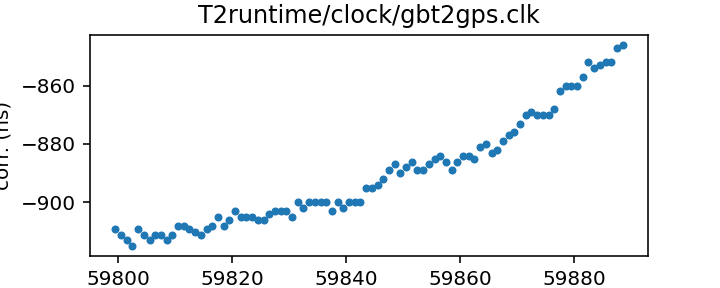
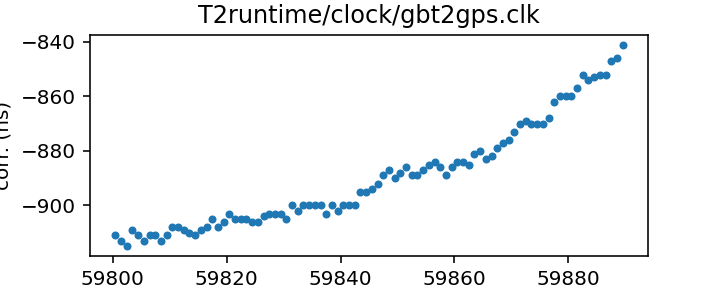
Routine gh-pages update from Github action Mon Nov  7 20:36:33 UTC 2022

diff --git a/status.md b/status.md
@@ -13,17 +13,17 @@ name of each clock file links to a page with more details.
 
 | Name | File | Corrections start | Corrections end | Last check date | Last check result 
 |:--- |:--- | --- | --- | --- |:--- 
-| [GPS to UTC](T2runtime/clock/gps2utc.clk.html) | `T2runtime/clock/gps2utc.clk` | 1993-01-01 MJD 48988.0 | 2022-09-27 MJD 59849.0 | 2022-11-06 | Unchanged 
-| [GPS to UTC (Combined Clock)](T2runtime/clock/gps2utc_cc.clk.html) | `T2runtime/clock/gps2utc_cc.clk` | 1993-01-01 MJD 48988.0 | 2022-09-27 MJD 59849.0 | 2022-11-06 | Unchanged 
-| [GPS to UTC (Corrected)](T2runtime/clock/gps2utc_c0p.clk.html) | `T2runtime/clock/gps2utc_c0p.clk` | 2010-12-29 MJD 55559.0 | 2022-09-27 MJD 59849.0 | 2022-11-06 | Unchanged 
-| [GBT](tempo/clock/time_gbt.dat.html) | `tempo/clock/time_gbt.dat` | 2000-12-31 MJD 51909.5 | 2022-11-05 MJD 59888.5 | 2022-11-06 | Updated 
-| [GBT (TEMPO2 converted from TEMPO)](T2runtime/clock/gbt2gps.clk.html) | `T2runtime/clock/gbt2gps.clk` | 2000-12-31 MJD 51909.5 | 2022-11-05 MJD 59888.5 | 2022-11-06 | Updated 
+| [GPS to UTC](T2runtime/clock/gps2utc.clk.html) | `T2runtime/clock/gps2utc.clk` | 1993-01-01 MJD 48988.0 | 2022-09-27 MJD 59849.0 | 2022-11-07 | Unchanged 
+| [GPS to UTC (Combined Clock)](T2runtime/clock/gps2utc_cc.clk.html) | `T2runtime/clock/gps2utc_cc.clk` | 1993-01-01 MJD 48988.0 | 2022-09-27 MJD 59849.0 | 2022-11-07 | Unchanged 
+| [GPS to UTC (Corrected)](T2runtime/clock/gps2utc_c0p.clk.html) | `T2runtime/clock/gps2utc_c0p.clk` | 2010-12-29 MJD 55559.0 | 2022-09-27 MJD 59849.0 | 2022-11-07 | Unchanged 
+| [GBT](tempo/clock/time_gbt.dat.html) | `tempo/clock/time_gbt.dat` | 2000-12-31 MJD 51909.5 | 2022-11-06 MJD 59889.5 | 2022-11-07 | Updated 
+| [GBT (TEMPO2 converted from TEMPO)](T2runtime/clock/gbt2gps.clk.html) | `T2runtime/clock/gbt2gps.clk` | 2000-12-31 MJD 51909.5 | 2022-11-06 MJD 59889.5 | 2022-11-07 | Updated 
 | [Jodrell Bank](T2runtime/clock/jb2gps.clk.html) | `T2runtime/clock/jb2gps.clk` | 2006-10-13 MJD 54021.4 | 2021-11-03 MJD 59521.0 | 2022-11-02 | Unchanged 
 | [Jodrell Bank Roach](T2runtime/clock/jbroach2jb.clk.html) | `T2runtime/clock/jbroach2jb.clk` | 2006-10-13 MJD 54021.4 | 2018-03-20 MJD 58197.6 | 2022-11-02 | Unchanged 
 | [Jodrell Bank DFB](T2runtime/clock/jbdfb2jb.clk.html) | `T2runtime/clock/jbdfb2jb.clk` | 2006-10-13 MJD 54021.4 | 2017-05-11 MJD 57884.0 | 2022-11-02 | Unchanged 
-| [Meerkat (observatory)](T2runtime/clock/mk2utc_observatory.clk.html) | `T2runtime/clock/mk2utc_observatory.clk` | 2019-01-01 MJD 58484.0 | 2022-10-05 MJD 59858.0 | 2022-10-31 | **Failed to download** 
-| [Leap seconds](tempo/clock/leap.sec.html) | `tempo/clock/leap.sec` | 1972-07-01 MJD 41499.0 | 2017-01-01 MJD 57754.0 | 2022-11-06 | Unchanged 
-| [UT1 table](tempo/clock/ut1.dat.html) | `tempo/clock/ut1.dat` | 1973-01-02 MJD 41684.0 | 2023-11-11 MJD 60259.0 | 2022-11-06 | Unchanged 
+| [Meerkat (observatory)](T2runtime/clock/mk2utc_observatory.clk.html) | `T2runtime/clock/mk2utc_observatory.clk` | 2019-01-01 MJD 58484.0 | 2022-10-05 MJD 59858.0 | 2022-11-07 | **Failed to download** 
+| [Leap seconds](tempo/clock/leap.sec.html) | `tempo/clock/leap.sec` | 1972-07-01 MJD 41499.0 | 2017-01-01 MJD 57754.0 | 2022-11-07 | Unchanged 
+| [UT1 table](tempo/clock/ut1.dat.html) | `tempo/clock/ut1.dat` | 1973-01-02 MJD 41684.0 | 2023-11-11 MJD 60259.0 | 2022-11-07 | Unchanged 
 
 
 
@@ -64,7 +64,7 @@ name of each clock file links to a page with more details.
 | Name | File | Corrections start | Corrections end | Last check date | Last check result 
 |:--- |:--- | --- | --- | --- |:--- 
 | [GPS to UTC (TEMPO2)](T2runtime/clock/gps2utc_tempo2.clk.html) | `T2runtime/clock/gps2utc_tempo2.clk` | 1996-03-27 MJD 50169.0 | 2020-10-27 MJD 59149.0 | 2022-11-03 | Unchanged 
-| [GBT (TEMPO2)](T2runtime/clock/gbt2gps_tempo2.clk.html) | `T2runtime/clock/gbt2gps_tempo2.clk` | 2000-12-31 MJD 51909.5 | 2020-02-25 MJD 58904.5 | 2022-10-31 | Unchanged 
+| [GBT (TEMPO2)](T2runtime/clock/gbt2gps_tempo2.clk.html) | `T2runtime/clock/gbt2gps_tempo2.clk` | 2000-12-31 MJD 51909.5 | 2020-02-25 MJD 58904.5 | 2022-11-07 | Unchanged 
 | [Jodrell Bank (TEMPO)](tempo/clock/time_jb.dat.html) | `tempo/clock/time_jb.dat` | 2006-10-13 MJD 54021.4 | 2019-05-13 MJD 58616.2 | 2022-11-03 | Unchanged 
 | [VLA](tempo/clock/time_vla.dat.html) | `tempo/clock/time_vla.dat` | 1990-10-27 MJD 48191.2 | 2021-03-07 MJD 59280.5 | 2022-11-03 | **Failed to download** 
 | [VLA (TEMPO2)](T2runtime/clock/vla2gps.clk.html) | `T2runtime/clock/vla2gps.clk` | 2015-02-01 MJD 57054.6 | 2021-03-07 MJD 59280.5 | 2022-11-02 | Unchanged 

diff --git a/T2runtime/clock/gbt2gps.clk.md b/T2runtime/clock/gbt2gps.clk.md
@@ -23,14 +23,13 @@ If questions arise about the conversion, contact Anne Archibald
 | Format | tempo2 |
 | Bogus last correction | False |
 | Clock file start | 2000-12-31 MJD 51909.5 |
-| Clock file end | 2022-11-05 MJD 59888.5 |
+| Clock file end | 2022-11-06 MJD 59889.5 |
 | Update interval (days) | 1 |
-| Last update attempt | 2022-11-06 |
+| Last update attempt | 2022-11-07 |
 | Last update result | Updated |
 
 Log entries from the last few update attempts:
 ```
-2022-10-28 20:37:47.427 - Updated
 2022-10-29 20:35:15.179 - Updated
 2022-10-30 20:35:46.191 - Updated
 2022-10-31 20:37:51.621 - Updated
@@ -40,12 +39,13 @@ Log entries from the last few update attempts:
 2022-11-04 20:36:42.437 - Updated
 2022-11-05 20:35:36.397 - Updated
 2022-11-06 20:33:42.746 - Updated
+2022-11-07 20:35:55.172 - Updated
 ```
 [Full log](https://raw.githubusercontent.com/ipta/pulsar-clock-corrections/main/log/T2runtime/clock/gbt2gps.clk.log)
 
 Leading comments from clock file:
 
-    # This file was automatically converted from tempo/clock/time_gbt.dat on 2022-11-06 20:33:42.664
+    # This file was automatically converted from tempo/clock/time_gbt.dat on 2022-11-07 20:35:55.082
 
 
 

diff --git a/T2runtime/clock/mk2utc_observatory.clk.md b/T2runtime/clock/mk2utc_observatory.clk.md
@@ -21,12 +21,11 @@ If questions arise, contact Ryan Shannon <rshannon@swin.edu.au>
 | Clock file start | 2019-01-01 MJD 58484.0 |
 | Clock file end | 2022-10-05 MJD 59858.0 |
 | Update interval (days) | 7 |
-| Last update attempt | 2022-10-31 |
+| Last update attempt | 2022-11-07 |
 | Last update result | Failed to download |
 
 Log entries from the last few update attempts:
 ```
-2022-08-29 20:35:28.170 - Updated
 2022-09-05 20:35:40.782 - Failed to download: The read operation timed out
 2022-09-12 20:38:32.955 - Failed to download: The read operation timed out
 2022-09-19 20:40:34.403 - Updated
@@ -36,6 +35,7 @@ Log entries from the last few update attempts:
 2022-10-17 20:42:44.233 - Updated
 2022-10-24 20:43:28.588 - Unchanged
 2022-10-31 20:38:02.379 - Failed to download: <urlopen error _ssl.c:1114: The handshake operation timed out>
+2022-11-07 20:36:05.762 - Failed to download: <urlopen error _ssl.c:980: The handshake operation timed out>
 ```
 [Full log](https://raw.githubusercontent.com/ipta/pulsar-clock-corrections/main/log/T2runtime/clock/mk2utc_observatory.clk.log)
 

diff --git a/tempo/clock/time_gbt.dat.md b/tempo/clock/time_gbt.dat.md
@@ -18,14 +18,13 @@ If questions arise, contact Ryan S. Lynch <rlynch@nrao.edu>.
 | Format | tempo |
 | Bogus last correction | False |
 | Clock file start | 2000-12-31 MJD 51909.5 |
-| Clock file end | 2022-11-05 MJD 59888.5 |
+| Clock file end | 2022-11-06 MJD 59889.5 |
 | Update interval (days) | 1 |
-| Last update attempt | 2022-11-06 |
+| Last update attempt | 2022-11-07 |
 | Last update result | Updated |
 
 Log entries from the last few update attempts:
 ```
-2022-10-28 20:37:47.355 - Updated
 2022-10-29 20:35:15.099 - Updated
 2022-10-30 20:35:46.102 - Updated
 2022-10-31 20:37:51.004 - Updated
@@ -35,6 +34,7 @@ Log entries from the last few update attempts:
 2022-11-04 20:36:42.367 - Updated
 2022-11-05 20:35:36.308 - Updated
 2022-11-06 20:33:42.662 - Updated
+2022-11-07 20:35:54.719 - Updated
 ```
 [Full log](https://raw.githubusercontent.com/ipta/pulsar-clock-corrections/main/log/tempo/clock/time_gbt.dat.log)
 

diff --git a/T2runtime/clock/gbt2gps_tempo2.clk.md b/T2runtime/clock/gbt2gps_tempo2.clk.md
@@ -16,12 +16,11 @@ This file is pulled from the TEMPO2 repository and may not be fully up-to-date.
 | Clock file start | 2000-12-31 MJD 51909.5 |
 | Clock file end | 2020-02-25 MJD 58904.5 |
 | Update interval (days) | 7 |
-| Last update attempt | 2022-10-31 |
+| Last update attempt | 2022-11-07 |
 | Last update result | Unchanged |
 
 Log entries from the last few update attempts:
 ```
-2022-08-29 20:35:24.374 - Unchanged
 2022-09-05 20:35:29.797 - Unchanged
 2022-09-12 20:38:21.860 - Unchanged
 2022-09-19 20:40:29.966 - Unchanged
@@ -31,6 +30,7 @@ Log entries from the last few update attempts:
 2022-10-17 20:42:40.568 - Unchanged
 2022-10-24 20:43:25.480 - Unchanged
 2022-10-31 20:37:51.532 - Unchanged
+2022-11-07 20:35:55.080 - Unchanged
 ```
 [Full log](https://raw.githubusercontent.com/ipta/pulsar-clock-corrections/main/log/T2runtime/clock/gbt2gps_tempo2.clk.log)
 

diff --git a/T2runtime/clock/gps2utc_c0p.clk.md b/T2runtime/clock/gps2utc_c0p.clk.md
@@ -30,12 +30,11 @@ about the BIPM's published corrections, contact <tai@bipm.org>.
 | Clock file start | 2010-12-29 MJD 55559.0 |
 | Clock file end | 2022-09-27 MJD 59849.0 |
 | Update interval (days) | 1 |
-| Last update attempt | 2022-11-06 |
+| Last update attempt | 2022-11-07 |
 | Last update result | Unchanged |
 
 Log entries from the last few update attempts:
 ```
-2022-10-28 20:37:46.957 - Unchanged
 2022-10-29 20:35:14.224 - Unchanged
 2022-10-30 20:35:45.032 - Unchanged
 2022-10-31 20:37:50.071 - Unchanged
@@ -45,6 +44,7 @@ Log entries from the last few update attempts:
 2022-11-04 20:36:41.888 - Unchanged
 2022-11-05 20:35:35.283 - Unchanged
 2022-11-06 20:33:41.735 - Unchanged
+2022-11-07 20:35:54.065 - Unchanged
 ```
 [Full log](https://raw.githubusercontent.com/ipta/pulsar-clock-corrections/main/log/T2runtime/clock/gps2utc_c0p.clk.log)
 

diff --git a/T2runtime/clock/gps2utc_cc.clk.md b/T2runtime/clock/gps2utc_cc.clk.md
@@ -29,12 +29,11 @@ about the BIPM's published corrections, contact <tai@bipm.org>.
 | Clock file start | 1993-01-01 MJD 48988.0 |
 | Clock file end | 2022-09-27 MJD 59849.0 |
 | Update interval (days) | 1 |
-| Last update attempt | 2022-11-06 |
+| Last update attempt | 2022-11-07 |
 | Last update result | Unchanged |
 
 Log entries from the last few update attempts:
 ```
-2022-10-28 20:37:46.945 - Unchanged
 2022-10-29 20:35:14.214 - Unchanged
 2022-10-30 20:35:45.019 - Unchanged
 2022-10-31 20:37:50.057 - Unchanged
@@ -44,6 +43,7 @@ Log entries from the last few update attempts:
 2022-11-04 20:36:41.877 - Unchanged
 2022-11-05 20:35:35.269 - Unchanged
 2022-11-06 20:33:41.720 - Unchanged
+2022-11-07 20:35:54.050 - Unchanged
 ```
 [Full log](https://raw.githubusercontent.com/ipta/pulsar-clock-corrections/main/log/T2runtime/clock/gps2utc_cc.clk.log)
 

diff --git a/T2runtime/clock/gps2utc.clk.md b/T2runtime/clock/gps2utc.clk.md
@@ -32,12 +32,11 @@ about the BIPM's published corrections, contact <tai@bipm.org>.
 | Clock file start | 1993-01-01 MJD 48988.0 |
 | Clock file end | 2022-09-27 MJD 59849.0 |
 | Update interval (days) | 1 |
-| Last update attempt | 2022-11-06 |
+| Last update attempt | 2022-11-07 |
 | Last update result | Unchanged |
 
 Log entries from the last few update attempts:
 ```
-2022-10-28 20:37:46.909 - Unchanged
 2022-10-29 20:35:14.183 - Unchanged
 2022-10-30 20:35:44.979 - Unchanged
 2022-10-31 20:37:50.016 - Unchanged
@@ -47,6 +46,7 @@ Log entries from the last few update attempts:
 2022-11-04 20:36:41.843 - Unchanged
 2022-11-05 20:35:35.229 - Unchanged
 2022-11-06 20:33:41.675 - Unchanged
+2022-11-07 20:35:54.006 - Unchanged
 ```
 [Full log](https://raw.githubusercontent.com/ipta/pulsar-clock-corrections/main/log/T2runtime/clock/gps2utc.clk.log)
 

diff --git a/tempo/clock/leap.sec.md b/tempo/clock/leap.sec.md
@@ -21,12 +21,11 @@ If there are any questions, contact Anne Archibald
 | File start | 1972-07-01 MJD 41499.0 |
 | File end | 2017-01-01 MJD 57754.0 |
 | Update interval (days) | 0 |
-| Last update attempt | 2022-11-06 |
+| Last update attempt | 2022-11-07 |
 | Last update result | Unchanged |
 
 Log entries from the last few update attempts:
 ```
-2022-10-28 20:37:47.465 - Unchanged
 2022-10-29 20:35:15.221 - Unchanged
 2022-10-30 20:35:46.243 - Unchanged
 2022-10-31 20:38:02.407 - Unchanged
@@ -36,5 +35,6 @@ Log entries from the last few update attempts:
 2022-11-04 20:36:42.474 - Unchanged
 2022-11-05 20:35:36.452 - Unchanged
 2022-11-06 20:33:42.788 - Unchanged
+2022-11-07 20:36:05.786 - Unchanged
 ```
 [Full log](https://raw.githubusercontent.com/ipta/pulsar-clock-corrections/main/log/tempo/clock/leap.sec.log)

diff --git a/tempo/clock/ut1.dat.md b/tempo/clock/ut1.dat.md
@@ -30,12 +30,11 @@ If there are any questions, contact Anne Archibald
 | File start | 1973-01-02 MJD 41684.0 |
 | File end | 2023-11-11 MJD 60259.0 |
 | Update interval (days) | 0 |
-| Last update attempt | 2022-11-06 |
+| Last update attempt | 2022-11-07 |
 | Last update result | Unchanged |
 
 Log entries from the last few update attempts:
 ```
-2022-10-28 20:37:55.490 - Unchanged
 2022-10-29 20:35:27.827 - Unchanged
 2022-10-30 20:35:59.228 - Unchanged
 2022-10-31 20:38:15.893 - Unchanged
@@ -45,5 +44,6 @@ Log entries from the last few update attempts:
 2022-11-04 20:36:50.815 - Unchanged
 2022-11-05 20:35:49.505 - Unchanged
 2022-11-06 20:33:56.016 - Unchanged
+2022-11-07 20:36:16.070 - Unchanged
 ```
 [Full log](https://raw.githubusercontent.com/ipta/pulsar-clock-corrections/main/log/tempo/clock/ut1.dat.log)
